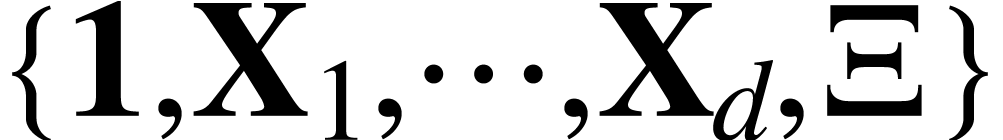
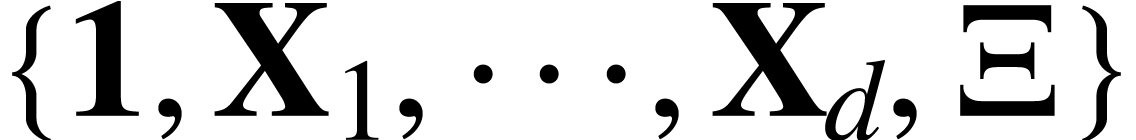
.

diff --git a/note_rs/note_rs.html b/note_rs/note_rs.html
@@ -73,7 +73,7 @@
     <p>
       where the term <img src="note_rs-3.png" style="margin-left: -0.0124121212121212em; margin-bottom: 0.0372121212121212em; margin-right: -0.0124121212121211em; margin-top: -0.0248242424242425em; vertical-align: -0.223393939393939em; height: 0.868848484848485em"></img> represents the renormalisation
       (it can be quadratic in <span class="no-breaks"><img src="note_rs-4.png" style="margin-left: -0.0124121212121212em; margin-bottom: 0.0372121212121212em; margin-right: -0.0124121212121212em; margin-top: -0.0248242424242425em; vertical-align: -0.223393939393939em; height: 0.868848484848485em"></img>)</span> and
-      the noise <img src="note_rs-5.png" style="margin-left: -0.0124121212121212em; margin-bottom: 0.0248em; margin-right: -0.0124121212121215em; margin-top: 0em; vertical-align: -0.210981818181818em; height: 1.06535757575758em"></img> for some <span class="no-breaks"><img src="note_rs-6.png" style="margin-left: -0.0124121212121212em; margin-bottom: 0.0123878787878788em; margin-right: -0.0124121212121213em; margin-top: -0.0186181818181818em; vertical-align: -0.0248em; height: 0.726109090909091em"></img>.</span>
+      the noise <img src="note_rs-5.png" style="margin-left: -0.0124121212121212em; margin-bottom: 0.0248em; margin-right: -0.0124121212121215em; margin-top: 0em; vertical-align: -0.210981818181818em; height: 1.06535757575758em"></img> for some <span class="no-breaks"><img src="note_rs-6.png" style="margin-left: -0.0124121212121212em; margin-bottom: 0.0123878787878788em; margin-right: -0.0124121212121211em; margin-top: -0.0186181818181818em; vertical-align: -0.0248em; height: 0.726109090909091em"></img>.</span>
       This chapter is a note taken from the paper [A. Chandra, A. Moinat, H.
       Weber, Arch. Ration. Mech. Anal. 247 (2023), no. 3, Paper No. 48].
     </p>
@@ -95,15 +95,15 @@
         <p>
           Let <img src="note_rs-8.png" style="margin-left: -0.0124121212121212em; margin-bottom: 0.0248em; margin-right: -0.0124121212121211em; margin-top: 0em; vertical-align: -0.213406060606061em; height: 1.09636363636364em"></img> be the smallest set containing the
           symbols <img src="note_rs-9.png" style="margin-left: 0em; margin-bottom: 0.0103030303030303em; margin-right: 0em; margin-top: -0.00620606060606055em; vertical-align: -0.165454545454545em; height: 0.868848484848485em"></img> s.t. &ldquo;<span class="no-breaks"><img src="note_rs-10.png"
-          style="margin-left: -0.0124121212121212em; margin-bottom: 0.0248em; margin-right: -0.0124121212121224em; margin-top: 0em; vertical-align: -0.213406060606061em; height: 1.09636363636364em"></img>&rdquo;.</span>
+          style="margin-left: -0.0124121212121212em; margin-bottom: 0.0248em; margin-right: -0.0124121212121189em; margin-top: 0em; vertical-align: -0.213406060606061em; height: 1.09636363636364em"></img>&rdquo;.</span>
         </p>
       </li>
       <li>
         <p>
           <span class="no-breaks"><img src="note_rs-11.png" style="margin-left: -0.0124121212121212em; margin-bottom: 0.0248em; margin-right: 0em; margin-top: 0em; vertical-align: -0.213406060606061em; height: 1.09636363636364em"></img>.</span> We use <img src="note_rs-12.png" style="margin-left: -0.0124121212121212em; margin-bottom: -2.42424242424249e-5em; margin-right: -0.0124121212121212em; margin-top: -0.0248242424242424em; vertical-align: -0.0123878787878788em; height: 0.50889696969697em"></img>
           to indicate elements in <span class="no-breaks"><img src="note_rs-13.png" style="margin-left: -0.0124121212121212em; margin-bottom: 0.0248em; margin-right: -0.0124121212121211em; margin-top: 0em; vertical-align: -0.213406060606061em; height: 1.09636363636364em"></img>.</span>
-          We call the elements in <img src="note_rs-14.png" style="margin-left: -0.0124121212121212em; margin-bottom: 0.0248em; margin-right: -0.0124121212121207em; margin-top: 0em; vertical-align: -0.213406060606061em; height: 1.09636363636364em"></img> trees. In a given
-          tree, <img src="note_rs-15.png" style="margin-left: -0.0124121212121212em; margin-bottom: 0.0123878787878788em; margin-right: -0.0124121212121215em; margin-top: -0.00620606060606055em; vertical-align: -0.165454545454545em; height: 0.866763636363636em"></img> occur in that tree are called leaves
+          We call the elements in <img src="note_rs-14.png" style="margin-left: -0.0124121212121212em; margin-bottom: 0.0248em; margin-right: -0.0124121212121215em; margin-top: 0em; vertical-align: -0.213406060606061em; height: 1.09636363636364em"></img> trees. In a given
+          tree, <img src="note_rs-15.png" style="margin-left: -0.0124121212121212em; margin-bottom: 0.0123878787878788em; margin-right: -0.0124121212121207em; margin-top: -0.00620606060606055em; vertical-align: -0.165454545454545em; height: 0.866763636363636em"></img> occur in that tree are called leaves
           in the tree.
         </p>
       </li>
@@ -115,49 +115,55 @@
       <li>
         <p>
           Define functions <img src="note_rs-17.png" style="margin-left: -0.0124121212121212em; margin-bottom: 0.0123878787878788em; margin-right: -0.0124121212121207em; margin-top: 0em; vertical-align: -0.273018181818182em; height: 1.16838787878788em"></img> which counts, on any given
-          tree, the number of occurrences of <span class="no-breaks"><img src="note_rs-18.png" style="margin-left: -0.0124121212121212em; margin-bottom: 0.0123878787878788em; margin-right: -0.0124121212121211em; margin-top: -0.00620606060606055em; vertical-align: -0.165454545454545em; height: 0.866763636363636em"></img>,</span>
-          and <img src="note_rs-19.png" style="margin-left: -0.0124121212121212em; margin-bottom: -0.0124121212121212em; margin-right: -0.0124121212121212em; margin-top: 0em; vertical-align: 0em; height: 0.695078787878788em"></img> as leaves in the tree.
+          tree, the number of occurrences of <span class="no-breaks"><img src="note_rs-18.png" style="margin-left: -0.0124121212121212em; margin-bottom: 0.0123878787878788em; margin-right: -0.0124121212121213em; margin-top: -0.00620606060606055em; vertical-align: -0.165454545454545em; height: 0.866763636363636em"></img>,</span>
+          and <img src="note_rs-19.png" style="margin-left: -0.0124121212121212em; margin-bottom: -0.0124121212121212em; margin-right: -0.0124121212121212em; margin-top: 0em; vertical-align: 0em; height: 0.695078787878788em"></img> as leaves in the tree. Denote also by
+          <span class="no-breaks"><img src="note_rs-20.png" style="margin-left: -0.0124121212121212em; margin-bottom: 0.0123878787878788em; margin-right: 0em; margin-top: 0em; vertical-align: -0.324727272727273em; height: 1.32104242424242em"></img>.</span>
         </p>
       </li>
       <li>
         <p>
-          <span class="no-breaks"><img src="note_rs-20.png" style="margin-left: -0.0124121212121212em; margin-bottom: 0.0248em; margin-right: 0em; margin-top: 0em; vertical-align: -0.213406060606061em; height: 1.09636363636364em"></img>,</span> <span class="no-breaks"><img src="note_rs-21.png"
-          style="margin-left: -0.0124121212121212em; margin-bottom: 0.00618181818181818em; margin-right: 0em; margin-top: -0.0131151515151515em; vertical-align: -0.161357575757576em; height: 0.875078787878788em"></img>,</span> <span class="no-breaks"><img src="note_rs-22.png" style="margin-left: -0.0124121212121212em; margin-bottom: 0.0248em; margin-right: 0em; margin-top: 0em; vertical-align: -0.213406060606061em; height: 1.09636363636364em"></img>,</span>
-          <span class="no-breaks"><img src="note_rs-23.png" style="margin-left: -0.0124121212121212em; margin-bottom: 0.00618181818181818em; margin-right: -0.0124121212121215em; margin-top: -0.0124121212121212em; vertical-align: -0.223393939393939em; height: 0.937115151515152em"></img>.</span>
+          <span class="no-breaks"><img src="note_rs-21.png" style="margin-left: 0em; margin-bottom: 0.00826666666666667em; margin-right: 0em; margin-top: -0.0186181818181818em; vertical-align: -0.173745454545455em; height: 0.879175757575758em"></img>.</span>
         </p>
       </li>
       <li>
         <p>
-          <span class="no-breaks"><img src="note_rs-24.png" style="margin-left: -0.0124121212121212em; margin-bottom: 0.0248em; margin-right: -0.0124121212121215em; margin-top: -0.0503515151515152em; vertical-align: -0.173236363636364em; height: 0.905575757575758em"></img>,</span> <img src="note_rs-25.png" style="margin-left: -0.0124121212121212em; margin-bottom: 0.00618181818181818em; margin-right: -0.0124121212121207em; margin-top: -0.0496484848484848em; vertical-align: -0.223393939393939em; height: 0.974351515151515em"></img>
+          <span class="no-breaks"><img src="note_rs-22.png" style="margin-left: -0.0124121212121212em; margin-bottom: 0.0248em; margin-right: 0em; margin-top: 0em; vertical-align: -0.213406060606061em; height: 1.09636363636364em"></img>,</span> <span class="no-breaks"><img src="note_rs-23.png"
+          style="margin-left: -0.0124121212121212em; margin-bottom: 0.00618181818181818em; margin-right: 0em; margin-top: -0.0131151515151515em; vertical-align: -0.161357575757576em; height: 0.875078787878788em"></img>,</span> <span class="no-breaks"><img src="note_rs-24.png" style="margin-left: -0.0124121212121212em; margin-bottom: 0.0248em; margin-right: 0em; margin-top: 0em; vertical-align: -0.213406060606061em; height: 1.09636363636364em"></img>,</span>
+          <span class="no-breaks"><img src="note_rs-25.png" style="margin-left: -0.0124121212121212em; margin-bottom: 0.00618181818181818em; margin-right: -0.0124121212121215em; margin-top: -0.0124121212121212em; vertical-align: -0.223393939393939em; height: 0.937115151515152em"></img>.</span>
         </p>
       </li>
       <li>
         <p>
-          <img src="note_rs-26.png" style="margin-left: -0.0124121212121212em; margin-bottom: 0.0123878787878788em; margin-right: -0.0124121212121207em; margin-top: -0.0379393939393939em; vertical-align: -0.160824242424242em; height: 0.893163636363636em"></img> consists of <img src="note_rs-27.png" style="margin-left: -0.0124121212121212em; margin-bottom: 0.0185939393939394em; margin-right: 0em; margin-top: -0.0131151515151515em; vertical-align: -0.173769696969697em; height: 0.875078787878788em"></img> s.t.
-          <img src="note_rs-28.png" style="margin-left: 0em; margin-bottom: 0.0103030303030303em; margin-right: -0.0124121212121207em; margin-top: -0.0248242424242424em; vertical-align: -0.165454545454545em; height: 0.961939393939394em"></img> and <span class="no-breaks"><img src="note_rs-29.png" style="margin-left: -0.0124121212121212em; margin-bottom: 0.0103030303030303em; margin-right: 0em; margin-top: -0.00620606060606055em; vertical-align: -0.165454545454545em; height: 0.868848484848485em"></img>.</span>
+          <span class="no-breaks"><img src="note_rs-26.png" style="margin-left: -0.0124121212121212em; margin-bottom: 0.0248em; margin-right: -0.0124121212121207em; margin-top: -0.0503515151515152em; vertical-align: -0.173236363636364em; height: 0.905575757575758em"></img>,</span> <img src="note_rs-27.png" style="margin-left: -0.0124121212121212em; margin-bottom: 0.00618181818181818em; margin-right: -0.0124121212121224em; margin-top: -0.0496484848484848em; vertical-align: -0.223393939393939em; height: 0.974351515151515em"></img>
         </p>
       </li>
       <li>
         <p>
-          <span class="no-breaks"><img src="note_rs-30.png" style="margin-left: -0.0124121212121212em; margin-bottom: 0.00618181818181818em; margin-right: 0em; margin-top: -0.0131151515151515em; vertical-align: -0.161357575757576em; height: 0.875078787878788em"></img>.</span>
+          <img src="note_rs-28.png" style="margin-left: -0.0124121212121212em; margin-bottom: 0.0123878787878788em; margin-right: -0.0124121212121207em; margin-top: -0.0379393939393939em; vertical-align: -0.160824242424242em; height: 0.893163636363636em"></img> consists of <img src="note_rs-29.png" style="margin-left: -0.0124121212121212em; margin-bottom: 0.0185939393939394em; margin-right: 0em; margin-top: -0.0131151515151515em; vertical-align: -0.173769696969697em; height: 0.875078787878788em"></img> s.t.
+          <img src="note_rs-30.png" style="margin-left: 0em; margin-bottom: 0.0103030303030303em; margin-right: -0.0124121212121224em; margin-top: -0.0248242424242424em; vertical-align: -0.165454545454545em; height: 0.961939393939394em"></img> and <span class="no-breaks"><img src="note_rs-31.png" style="margin-left: -0.0124121212121212em; margin-bottom: 0.0103030303030303em; margin-right: 0em; margin-top: -0.00620606060606055em; vertical-align: -0.165454545454545em; height: 0.868848484848485em"></img>.</span>
         </p>
       </li>
       <li>
         <p>
-          <span class="no-breaks"><img src="note_rs-31.png" style="margin-left: -0.0124121212121212em; margin-bottom: 0.0123878787878788em; margin-right: 0em; margin-top: 0em; vertical-align: -0.198327272727273em; height: 0.966909090909091em"></img>.</span>
+          <span class="no-breaks"><img src="note_rs-32.png" style="margin-left: -0.0124121212121212em; margin-bottom: 0.00618181818181818em; margin-right: 0em; margin-top: -0.0131151515151515em; vertical-align: -0.161357575757576em; height: 0.875078787878788em"></img>.</span>
         </p>
       </li>
       <li>
         <p>
-          <span class="no-breaks"><img src="note_rs-32.png" style="margin-left: -0.0124121212121212em; margin-bottom: 0.0123878787878788em; margin-right: 0em; margin-top: 0em; vertical-align: -0.198327272727273em; height: 0.966909090909091em"></img>.</span>
+          <span class="no-breaks"><img src="note_rs-33.png" style="margin-left: -0.0124121212121212em; margin-bottom: 0.0123878787878788em; margin-right: 0em; margin-top: 0em; vertical-align: -0.198327272727273em; height: 0.966909090909091em"></img>.</span>
         </p>
       </li>
       <li>
         <p>
-          <span class="no-breaks"><img src="note_rs-33.png" style="margin-left: -0.0124121212121212em; margin-bottom: 0.00618181818181818em; margin-right: 0em; margin-top: -0.0496484848484848em; vertical-align: -0.223393939393939em; height: 0.974351515151515em"></img>.</span>
+          <span class="no-breaks"><img src="note_rs-34.png" style="margin-left: -0.0124121212121212em; margin-bottom: 0.0123878787878788em; margin-right: 0em; margin-top: 0em; vertical-align: -0.198327272727273em; height: 0.966909090909091em"></img>.</span>
+        </p>
+      </li>
+      <li>
+        <p>
+          <span class="no-breaks"><img src="note_rs-35.png" style="margin-left: -0.0124121212121212em; margin-bottom: 0.00618181818181818em; margin-right: 0em; margin-top: -0.0496484848484848em; vertical-align: -0.223393939393939em; height: 0.974351515151515em"></img>.</span>
         </p>
         <center>
-          <img src="note_rs-34.png" style="margin-left: -0.0124121212121212em; margin-bottom: 0.0558060606060602em; margin-right: -0.0124121212121224em; margin-top: -0.0124121212121207em; vertical-align: -4.3745696969697em; height: 9.22705454545455em"></img>
+          <img src="note_rs-36.png" style="margin-left: -0.0124121212121212em; margin-bottom: 0.0558060606060602em; margin-right: -0.0124121212121224em; margin-top: -0.0124121212121207em; vertical-align: -4.3745696969697em; height: 9.22705454545455em"></img>
         </center>
       </li>
     </ul>
